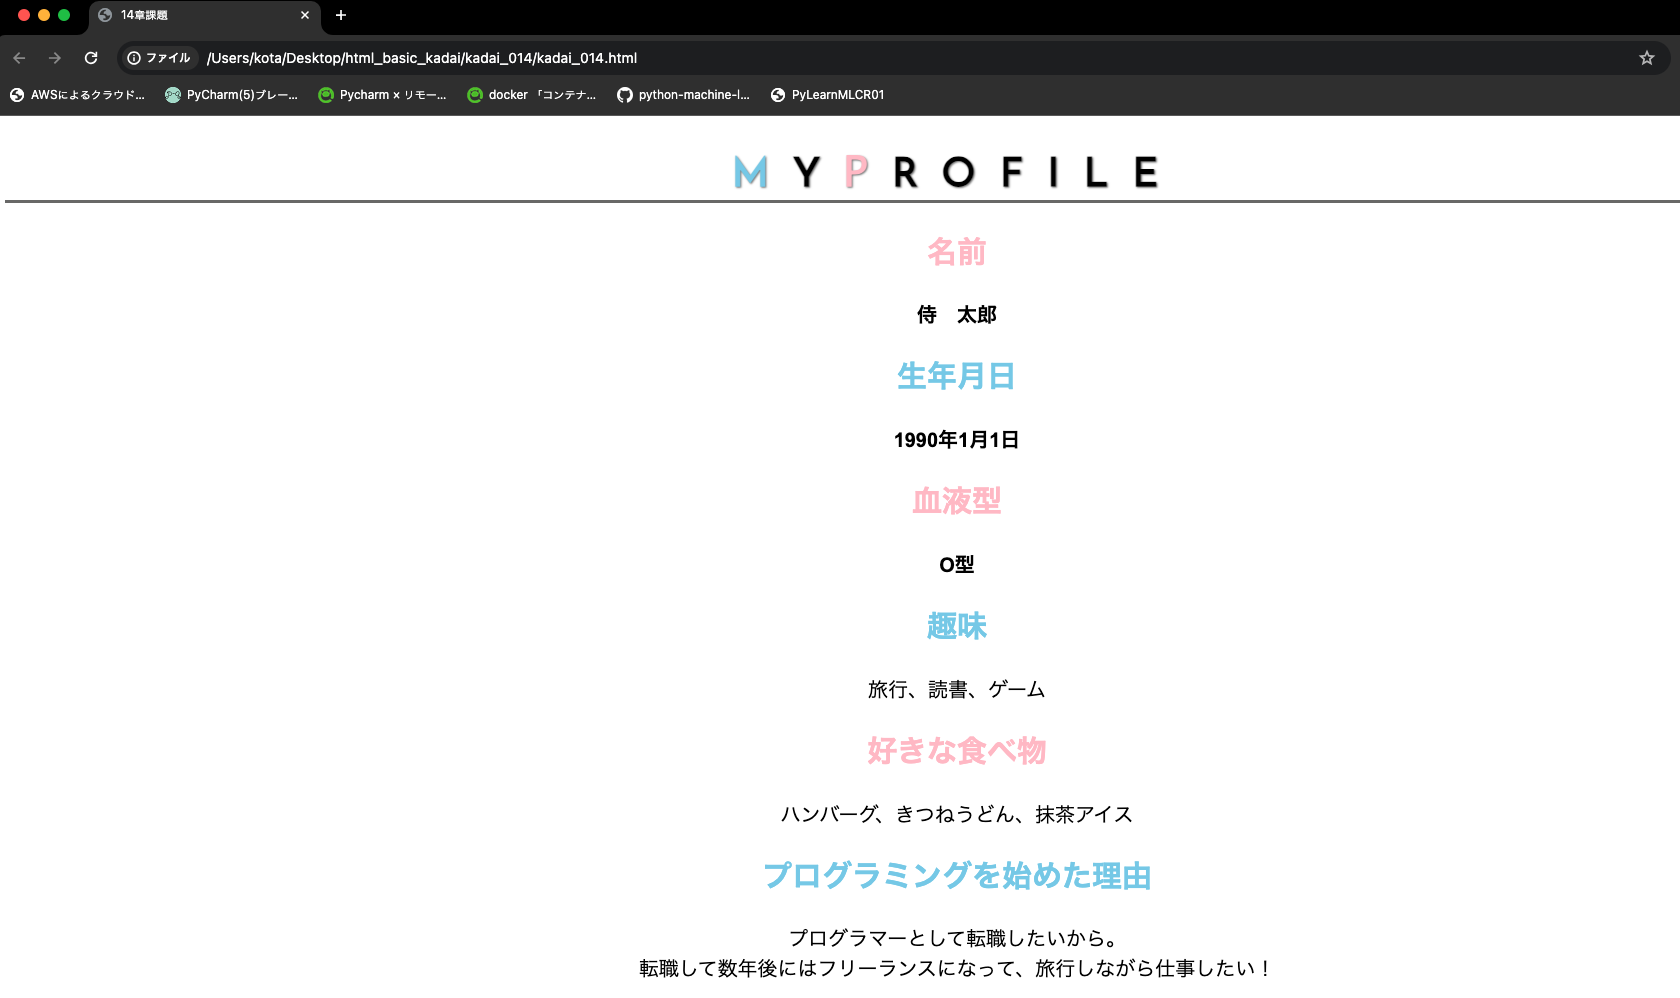
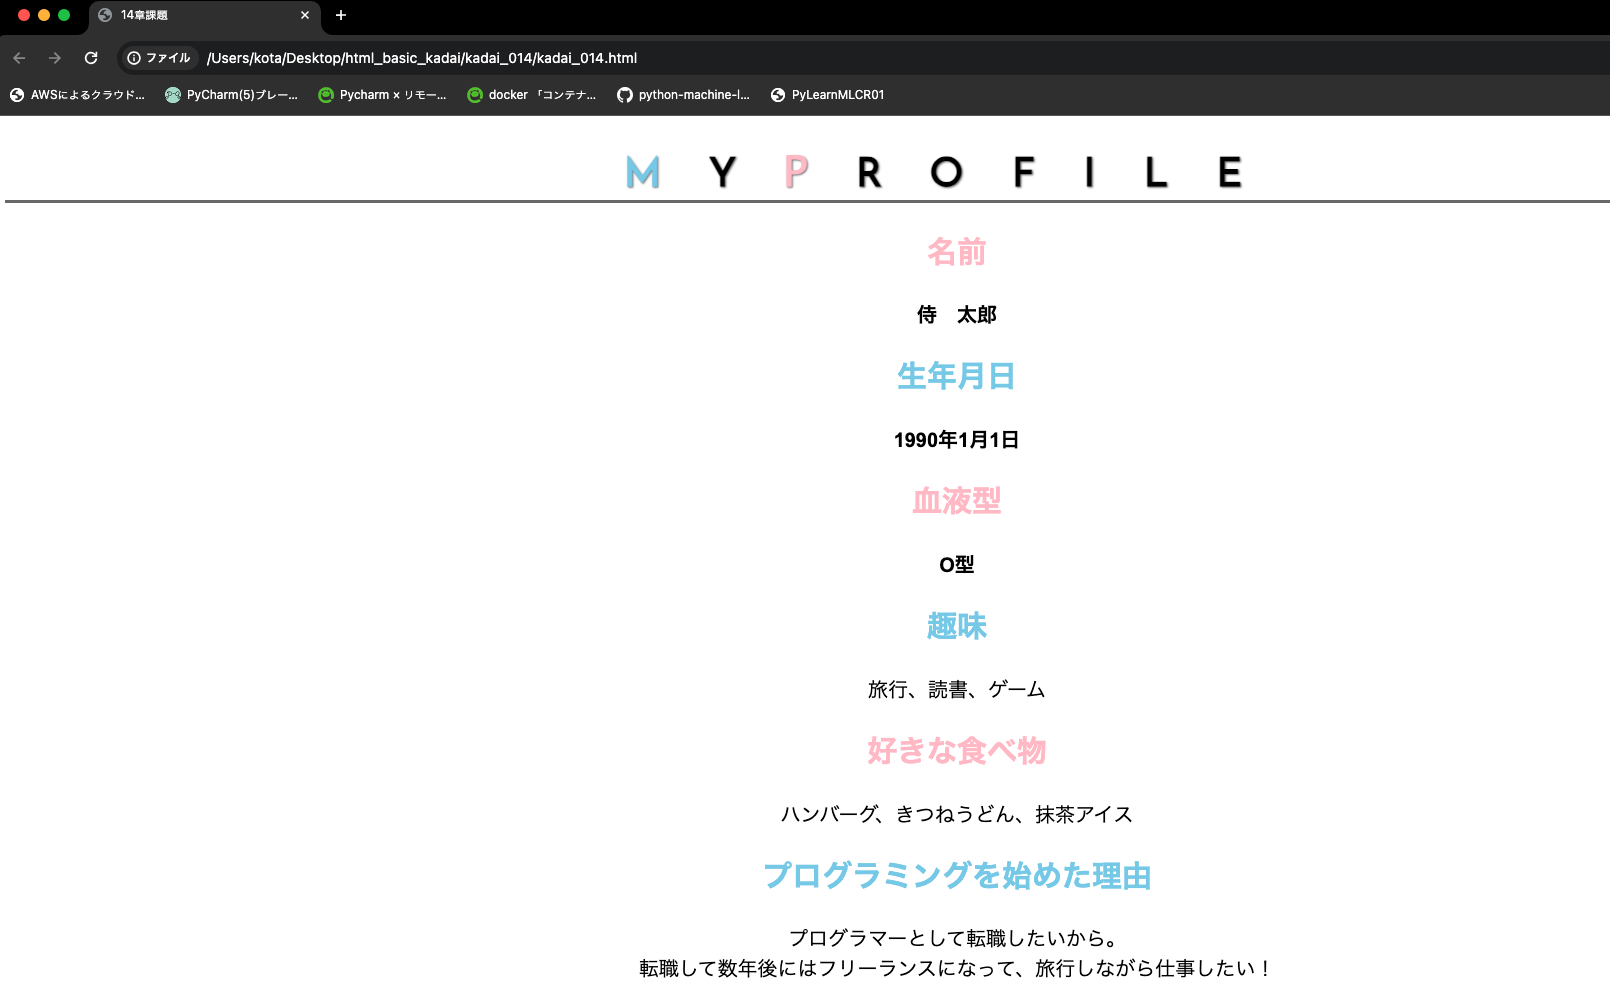
文字間隔の単位をrem→emに修正

diff --git a/kadai_014/style.css b/kadai_014/style.css
@@ -22,8 +22,8 @@ body {
     font-family: "Josefin Sans", sans-serif;
     /*文字サイズ：ルート要素のフォントサイズの2倍*/
     font-size: 2rem;
-    /*文字間隔：ルート要素のフォントサイズの1.2倍*/
-    letter-spacing: 1.2rem;
+    /*文字間隔：親要素のフォントサイズの1.2倍*/
+    letter-spacing: 1.2em;
     /* 文字の影の設定 */
     text-shadow: 1px 1px 2px gray;
     /* 下線の設定 */
